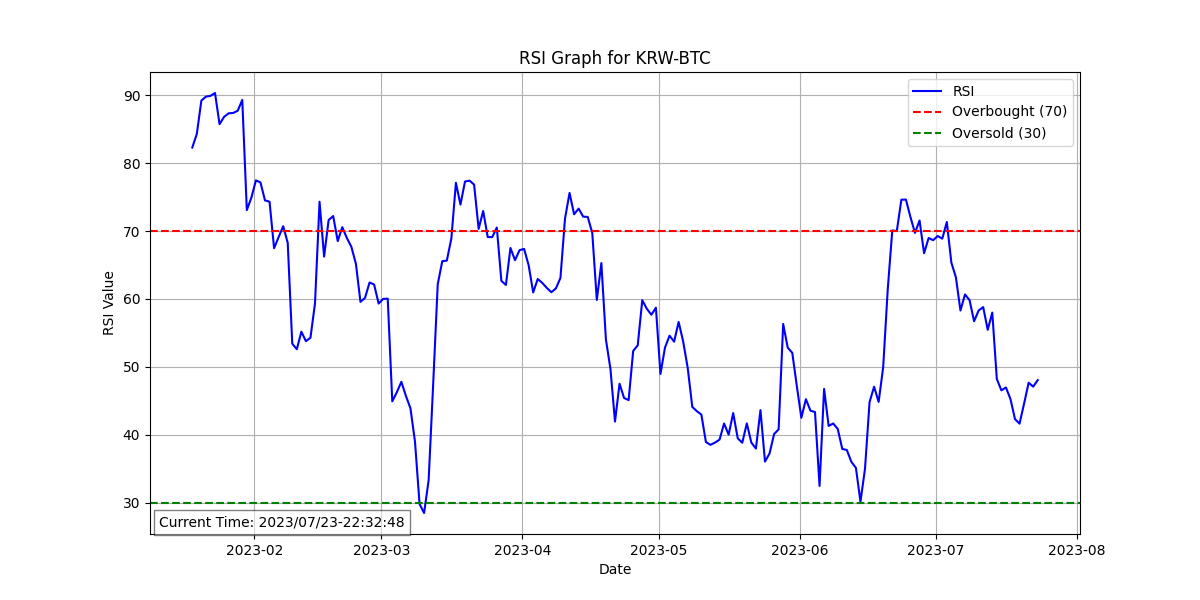
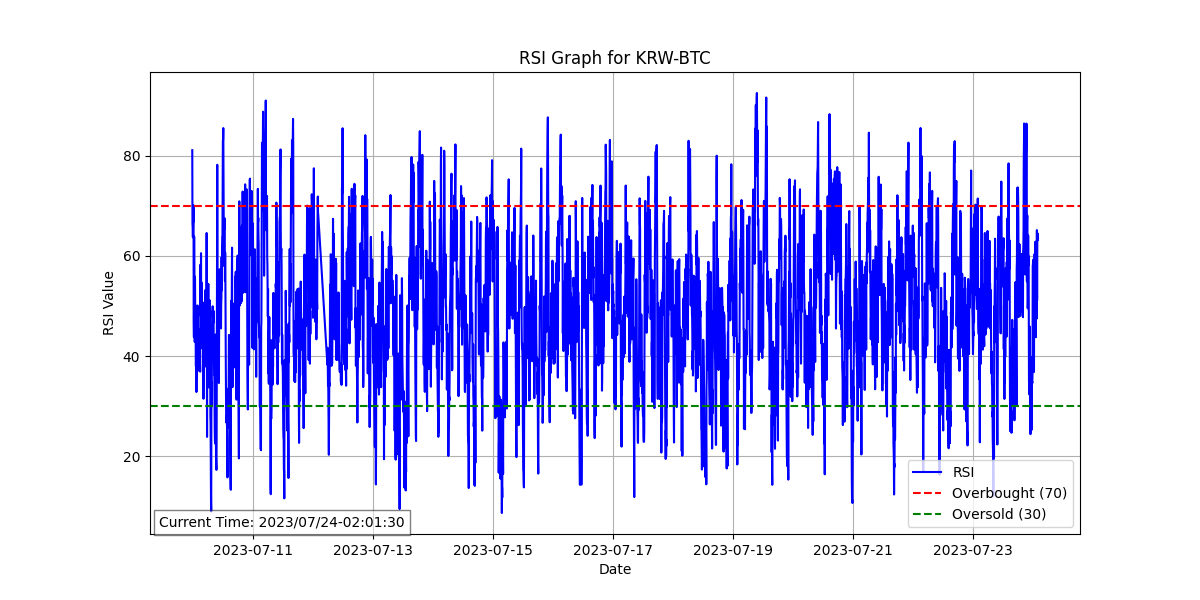
Optimize Code & Add MACD

diff --git a/Modules/MACD_Analyzer/MACD_Analyzer.py b/Modules/MACD_Analyzer/MACD_Analyzer.py
@@ -1,0 +1,72 @@
+import pyupbit
+import pandas as pd
+import numpy as np
+import matplotlib.pyplot as plt
+import os
+from datetime import datetime
+from functools import lru_cache
+
+
+@lru_cache(maxsize=32)  # Cache the result of the function to avoid redundant calculations
+def get_price_data(coin_name, interval='minute5', count=10080):
+    return pyupbit.get_ohlcv(coin_name, interval=interval, count=count)
+
+
+def macd_calc(coin_name):
+    # Get the price data using cached function
+    df = get_price_data(coin_name)
+
+    # Calculate the 12-day and 26-day exponential moving averages (EMA)
+    ema_12 = df['close'].ewm(span=12, adjust=False).mean()
+    ema_26 = df['close'].ewm(span=26, adjust=False).mean()
+
+    # Calculate the MACD line
+    macd_line = ema_12 - ema_26
+
+    # Calculate the 9-day EMA of the MACD line (Signal line)
+    signal_line = macd_line.ewm(span=9, adjust=False).mean()
+
+    # Calculate the MACD Histogram (the difference between the MACD line and the Signal line)
+    macd_histogram = macd_line - signal_line
+
+    # Create a new DataFrame with the calculated MACD components as columns
+    macd_df = pd.DataFrame({
+        'close': df['close'],
+        'macd_line': macd_line,
+        'signal_line': signal_line,
+        'macd_histogram': macd_histogram
+    })
+
+    return macd_df
+
+
+def macd_grph(coin_name):
+    # Get the MACD data using the optimized macd_calc() function
+    df = macd_calc(coin_name)
+    plt.close('all')  # closes all the figure windows
+    # Plotting the MACD graph
+    plt.figure(figsize=(12, 6))
+    # plt.plot(df.index, df['close'], label='Close Price', color='blue')
+    plt.bar(df.index, df['macd_histogram'], label='MACD Histogram', color='gray', alpha=0.5)
+    plt.plot(df.index, df['macd_line'], label='MACD Line', color='red')
+    plt.plot(df.index, df['signal_line'], label='Signal Line', color='green')
+
+    plt.title(f"MACD Analysis for {coin_name}")
+    plt.xlabel('Date')
+    plt.ylabel('MACD')
+    plt.legend()
+    plt.grid(True)
+    # Add small text on the left bottom with current time
+    current_time = datetime.now().strftime('%Y/%m/%d-%H:%M:%S')
+    plt.text(0.01, 0.01, 'Current Time: {}'.format(current_time), transform=plt.gca().transAxes,
+             fontsize=10, verticalalignment='bottom', bbox=dict(facecolor='white', alpha=0.5))
+
+    # Create the 'RSI_IMG_FILES' directory if it does not exist
+    img_dir = 'Modules/MACD_Analyzer/MACD_IMG_FILES'
+    if not os.path.exists(img_dir):
+        os.makedirs(img_dir)
+
+    resource_location = os.path.join(img_dir, 'MACD_{}.png'.format(coin_name))
+    plt.savefig(resource_location)
+    print("MACD Done")
+    # plt.show()

diff --git a/Modules/RSI_Analyzer/RSI_Analyzer.py b/Modules/RSI_Analyzer/RSI_Analyzer.py
@@ -8,17 +8,16 @@ from datetime import datetime
 
 def rsi_calc(coin_name):
     pd.set_option('display.float_format', lambda x: '%.2f' % x)
-    df = pyupbit.get_ohlcv(coin_name)
+
+    # Fetch data for the last 14 days (14 days * 24 hours * 12 5-minute intervals per hour)
+    df = pyupbit.get_ohlcv(coin_name, interval='minute5', count=4032)
 
     df['변화량'] = df['close'] - df['close'].shift(1)
     df['상승폭'] = np.where(df['변화량'] >= 0, df['변화량'], 0)
     df['하락폭'] = np.where(df['변화량'] < 0, df['변화량'].abs(), 0)
 
-    # welles moving average
-    df['AU'] = df['상승폭'].ewm(alpha=1 / 14, min_periods=14).mean()
-    df['AD'] = df['하락폭'].ewm(alpha=1 / 14, min_periods=14).mean()
-    # df['RS'] = df['AU'] / df['AD']
-    # df['RSI'] = 100 - (100 / (1 + df['RS']))
+    df['AU'] = df['상승폭'].ewm(span=14, min_periods=14, adjust=False).mean()
+    df['AD'] = df['하락폭'].ewm(span=14, min_periods=14, adjust=False).mean()
     df['RSI'] = df['AU'] / (df['AU'] + df['AD']) * 100
 
     return df[['RSI']]
@@ -26,13 +25,12 @@ def rsi_calc(coin_name):
 
 def rsi_grph(coin_name):
     df = rsi_calc(coin_name)
-    plt.close('all')  # closes all the figure windows
+    plt.close('all')
     plt.figure(figsize=(12, 6))
     plt.plot(df.index, df['RSI'], label='RSI', color='b')
     plt.axhline(y=70, color='r', linestyle='--', label='Overbought (70)')
     plt.axhline(y=30, color='g', linestyle='--', label='Oversold (30)')
     plt.title('RSI Graph for {}'.format(coin_name))
-    # print('RSI Graph for {}'.format(coin_name))
     plt.xlabel('Date')
     plt.ylabel('RSI Value')
     plt.legend()
@@ -50,5 +48,4 @@ def rsi_grph(coin_name):
 
     resource_location = os.path.join(img_dir, 'RSI_{}.png'.format(coin_name))
     plt.savefig(resource_location)
-    print("Done")
-    # plt.show()
+    print("RSI Done")

diff --git a/main.py b/main.py
@@ -1,5 +1,6 @@
 import pyupbit
-import Modules.RSI_Analyzer.RSI_Analyzer as rsi
+import Modules.RSI_Analyzer.RSI_Analyzer as Rsi
+import Modules.MACD_Analyzer.MACD_Analyzer as Macd
 input_file = './Modules/Get_Coins_Data/clist'
 coin_list = []
 
@@ -11,4 +12,5 @@ with open(input_file, 'r') as file:
 print(coin_list)
 
 for coin in coin_list:
-    rsi.rsi_grph(coin)
+    Rsi.rsi_grph(coin)
+    Macd.macd_grph(coin)
